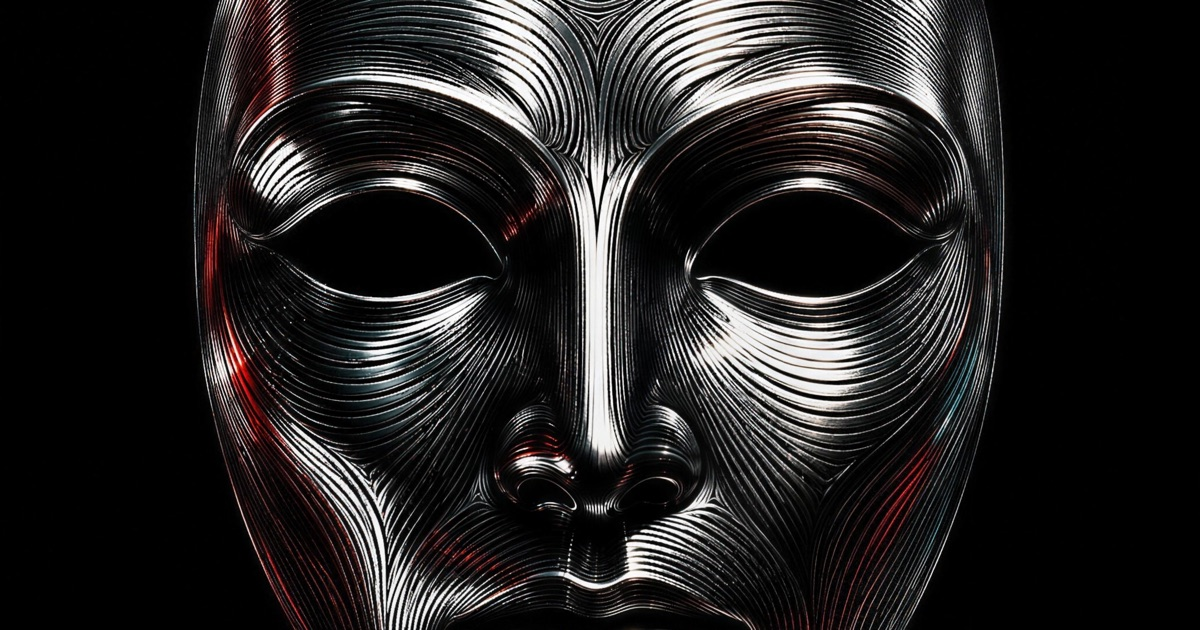
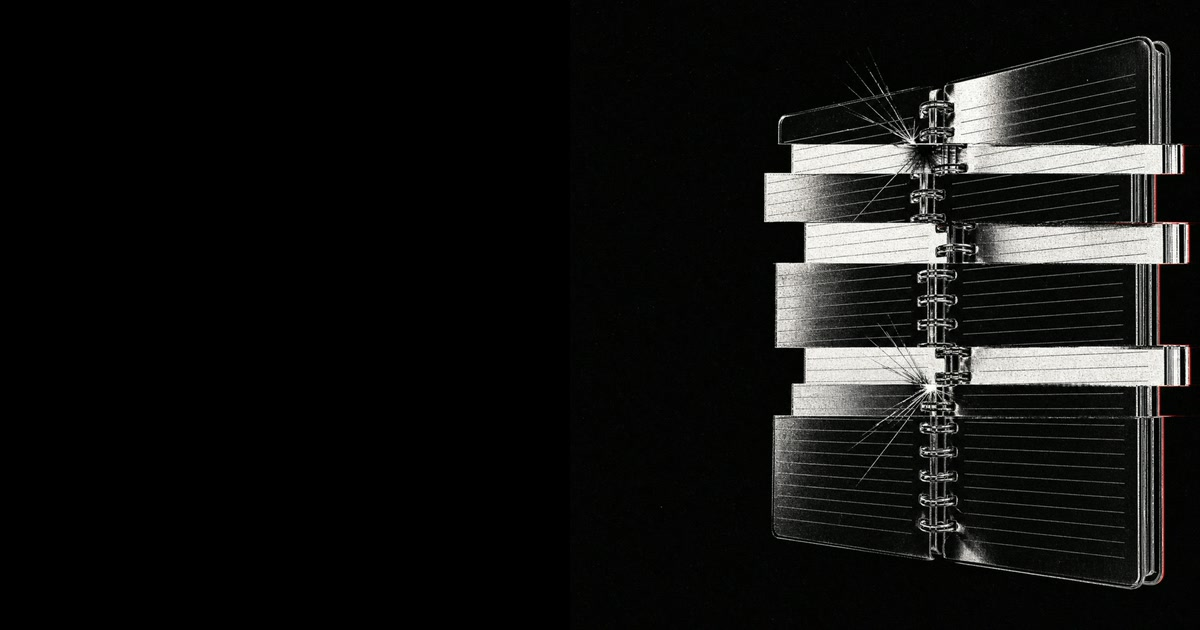
feat(landing): add dramatic academic glitch art

diff --git a/landing/app/page.tsx b/landing/app/page.tsx
@@ -1,11 +1,12 @@
 "use client";
 
+import Link from "next/link";
 import { useEffect } from "react";
 
 const APP_SIGN_UP = "https://app.pharmaorb.app/sign-up";
 const APP_SIGN_IN = "https://app.pharmaorb.app/sign-in";
 
-/** Subtle downward drift on the hero mask while scrolling. The image bands get their
+/** Subtle downward drift on the hero art while scrolling. The image bands get their
  *  parallax from CSS (background-attachment: fixed); both effects turn off under
  *  prefers-reduced-motion, and the bands also fall back to plain scroll on mobile. */
 function useHeroParallax() {
@@ -34,11 +35,11 @@ export default function Home() {
     <>
       <nav className="nav">
         <div className="wrap nav-in">
-          <a className="brand" href="/">
+          <Link className="brand" href="/">
             {/* eslint-disable-next-line @next/next/no-img-element */}
             <img src="/nemesis/logo.png" alt="Nemesis logo" />
             <b>Nemesis</b>
-          </a>
+          </Link>
           <span className="spacer" />
           <a className="ghost" href="#how">System</a>
           <a className="ghost" href="#graph">The graph</a>
@@ -123,7 +124,7 @@ export default function Home() {
           </div>
           <div className="triad">
             <div className="obj">
-              <div className="img intelligence" role="img" aria-label="Interlocking chrome rings" />
+              <div className="img intelligence" role="img" aria-label="Glitched black-chrome clipboard" />
               <div className="cap">
                 <div className="k">Intelligence</div>
                 <h3>It knows your semester</h3>
@@ -135,7 +136,7 @@ export default function Home() {
               </div>
             </div>
             <div className="obj">
-              <div className="img mastery" role="img" aria-label="Ascending chrome spiral" />
+              <div className="img mastery" role="img" aria-label="Glitched open black-chrome textbook" />
               <div className="cap">
                 <div className="k">Mastery</div>
                 <h3>It measures what you know</h3>
@@ -146,7 +147,7 @@ export default function Home() {
               </div>
             </div>
             <div className="obj">
-              <div className="img obelisk" role="img" aria-label="Dark chrome obelisk" />
+              <div className="img calendar" role="img" aria-label="Glitched black-chrome desk calendar" />
               <div className="cap">
                 <div className="k">Nemesis</div>
                 <h3>It does the work around learning</h3>
@@ -264,11 +265,11 @@ export default function Home() {
 
       <footer className="foot">
         <div className="wrap foot-in">
-          <a className="brand" href="/">
+          <Link className="brand" href="/">
             {/* eslint-disable-next-line @next/next/no-img-element */}
             <img src="/nemesis/logo.png" alt="" style={{ width: 20, height: 20 }} />
             <b style={{ fontSize: "11px" }}>Nemesis</b>
-          </a>
+          </Link>
           <a href="/privacy">Privacy</a>
           <a href="/terms">Terms</a>
           <span className="spacer" />

diff --git a/landing/app/globals.css b/landing/app/globals.css
@@ -78,7 +78,7 @@ h1, h2, h3 { color: var(--chrome); font-weight: 600; text-wrap: balance; margin:
 .btn-ghost { color: var(--chrome); border: 1px solid var(--line-2); background: transparent; }
 .btn-ghost:hover { border-color: var(--steel); }
 
-/* hero — square mask anchored right, black-on-black blend */
+/* hero — square notebook anchored right, black-on-black blend */
 .hero {
   position: relative; min-height: 92vh; display: flex; align-items: center;
   border-bottom: 1px solid var(--line); overflow: hidden;
@@ -86,7 +86,7 @@ h1, h2, h3 { color: var(--chrome); font-weight: 600; text-wrap: balance; margin:
 .hero-art {
   position: absolute; top: 50%; transform: translateY(calc(-50% + var(--par, 0px)));
   right: -3vw; height: 104%; aspect-ratio: 1 / 1;
-  background-image: url("/nemesis/hero.jpg");
+  background-image: url("/nemesis/hero-notebook.webp");
   background-size: cover; background-position: center; will-change: transform;
 }
 .hero-veil {
@@ -128,9 +128,9 @@ h1, h2, h3 { color: var(--chrome); font-weight: 600; text-wrap: balance; margin:
 }
 .obj:hover { border-color: var(--line-2); }
 .obj .img { aspect-ratio: 1 / 1; background-size: cover; background-position: center; }
-.obj .img.intelligence { background-image: url("/nemesis/intelligence.jpg"); }
-.obj .img.mastery { background-image: url("/nemesis/mastery.jpg"); }
-.obj .img.obelisk { background-image: url("/nemesis/obelisk.jpg"); }
+.obj .img.intelligence { background-image: url("/nemesis/intelligence-clipboard.webp"); }
+.obj .img.mastery { background-image: url("/nemesis/mastery-textbook.webp"); }
+.obj .img.calendar { background-image: url("/nemesis/nemesis-calendar.webp"); }
 .obj .cap { padding: 22px 22px 26px; }
 .obj .k {
   font-family: var(--mono); font-size: 11px; letter-spacing: 0.2em;
@@ -160,8 +160,8 @@ h1, h2, h3 { color: var(--chrome); font-weight: 600; text-wrap: balance; margin:
   position: absolute; inset: 0; background-size: cover; background-position: center;
   background-attachment: fixed;
 }
-.band-art.graph { background-image: url("/nemesis/lattice.jpg"); }
-.band-art.order { background-image: url("/nemesis/plates.jpg"); background-position: 76% center; }
+.band-art.graph { background-image: url("/nemesis/semester-binder.webp"); }
+.band-art.order { background-image: url("/nemesis/order-accordion-folder.webp"); background-position: 76% center; }
 .band-veil {
   position: absolute; inset: 0;
   background: linear-gradient(90deg, var(--ink) 22%, rgba(8, 8, 9, 0.82) 48%, rgba(8, 8, 9, 0.12) 80%);

diff --git a/landing/app/layout.tsx b/landing/app/layout.tsx
@@ -17,17 +17,26 @@ const jetbrains = JetBrains_Mono({
 });
 
 export const metadata: Metadata = {
-  // Current apex domain; swap when the Nemesis domain is wired up.
-  metadataBase: new URL("https://pharmaorb.app"),
+  metadataBase: new URL("https://www.enternemesis.com"),
   title: "Nemesis — academic operating system for macOS",
   description:
     "Nemesis reads your school accounts, tracks every deadline and change, measures what you know, and drafts your work. It never submits. Local-first, for macOS.",
+  alternates: { canonical: "/" },
   openGraph: {
     title: "Nemesis — academic operating system for macOS",
     description:
       "It knows what changed. It knows what comes next. It knows what you don't. Local-first, never submits.",
     type: "website",
+    url: "/",
+    siteName: "Nemesis",
     images: [{ url: "/nemesis/og.jpg", width: 1200, height: 630 }],
+  },
+  twitter: {
+    card: "summary_large_image",
+    title: "Nemesis — academic operating system for macOS",
+    description:
+      "It knows what changed. It knows what comes next. It knows what you don't. Local-first, never submits.",
+    images: ["/nemesis/og.jpg"],
   },
   robots: { index: true, follow: true },
 };
